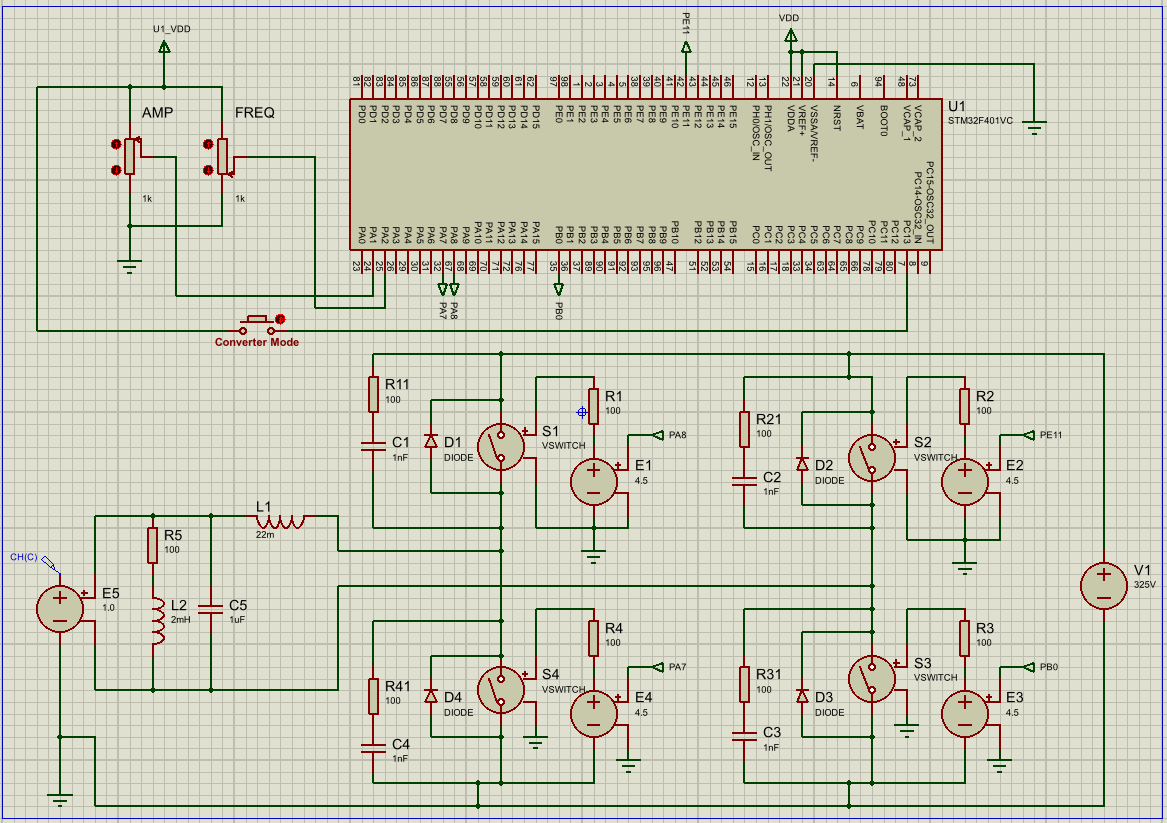
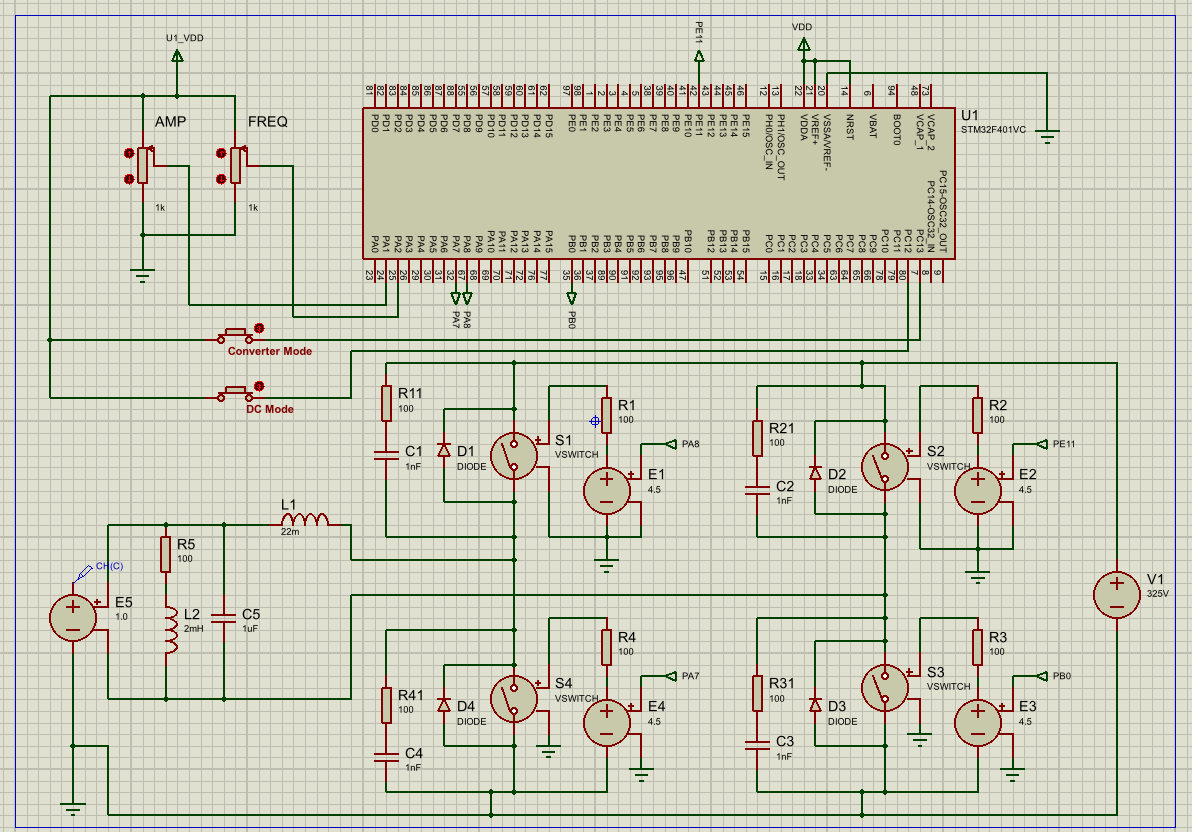
Reversible DC mode, smooth DC/AC transitions, fixed sine table
- PC12 button selects the DC output polarity (positive / negative)
- DC to AC: sine starts at the DC level (90° or 270°)
- AC to DC: waits for the sine to reach the DC level before switching
- Sine table computed once at startup and resampled in the ISR (no malloc / sinf at runtime)
- Updated schematic, screenshots, demo GIF and README

diff --git a/Firmware/Src/apk.c b/Firmware/Src/apk.c
@@ -15,11 +15,20 @@ uint16_t Freq = 0;
 
 static volatile uint16_t IRQCounter = 0;
 
+static volatile uint8_t FromDC = 0; // Flag for Conversion Mode Switch
 
 static volatile float m = 0.0f;
 static volatile uint8_t SinTableSize = 0;
 
-static int16_t * volatile SinRefTable = NULL;
+static int16_t SinRefTable[SIN_TABLE_MAX];
+
+void Sin_Init(void)
+{
+    for (uint8_t i = 0; i < SIN_TABLE_MAX; i++)
+    {
+        SinRefTable[i] = (int16_t)((float)COUNTER_MAX_VAL * sinf((2.0f * (float)M_PI * i) / SIN_TABLE_MAX));
+    }
+}
 
 void DC_AC_Conversion(void)
 {
@@ -40,34 +49,57 @@ void DC_AC_Conversion(void)
         {
             IRQCounter = 0;
         }
-
-        free(SinRefTable);
-        SinRefTable = malloc(SinTableSize*sizeof(int16_t)); // Table of Sin Values for number of PWM cycles in desired Period
-
-        if (SinRefTable == NULL)
-        {
-            SinTableSize = 0;
-            return;
-        }
-
-        for(uint8_t i =0; i<SinTableSize; i++)
-        {
-        	SinRefTable[i] = (int16_t)((float)COUNTER_MAX_VAL*sinf(((float)M_PI*2.0f * i)/SinTableSize)); // Table of Counter Compare values for every PWM cycle
-        }
-
         OldFreq = Freq; // Old Frequency Memorization
+    }
+
+    if ((FromDC != 0U) && (SinTableSize != 0U)) // Start from SIN Value when switching from DC-DC to DC-AC
+    {
+        if ((GPIOC->IDR & GPIO_IDR_ID12_Msk) == 0U)
+        {
+            IRQCounter = SinTableSize / 4U; // Positive DC
+        }
+        else
+        {
+            IRQCounter = (3U * SinTableSize) / 4U; // Negative DC
+        }
+        FromDC = 0U; // From DC Reset
     }
     WriteRegisterField(&TIM1->DIER, TIM_DIER_UIE_Pos, TIM_DIER_UIE_Msk, 1U); // TIM INT Enable
 }
 
 void DC_DC_Conversion(void)
 {
+	if (((TIM1->DIER & TIM_DIER_UIE_Msk) != 0U) && (SinTableSize != 0U)) // Coming from DC/AC mode
+	{
+		uint16_t Target;
+		if ((GPIOC->IDR & GPIO_IDR_ID12_Msk) == 0U)
+		{
+			Target = SinTableSize / 4U; // Positive DC
+		}
+		else
+		{
+			Target = (3U * SinTableSize) / 4U; // Negative DC
+		}
+		while (IRQCounter != Target) {}        // Wait for SIN to get DC Value
+	}
+
 	WriteRegisterField(&TIM1->DIER, TIM_DIER_UIE_Pos, TIM_DIER_UIE_Msk, 0U); // TIM INT Disable
-	static uint32_t CCR1_Val = 0;
+	static uint32_t CCR_Val = 0;
+	FromDC = 1U; // Flag Set
 	m = (float)Amp / (float)MAX_DC_VAL; // Calculate Amplitude Variation
-	CCR1_Val = (uint32_t)(m*(float)COUNTER_MAX_VAL);
-	TIM1->CCR1 = (CCR1_Val << TIM_CCR1_CCR1_Pos); // Constant PWM for DC-DC Conversion
-	TIM1->CCR2 = 0U; // PWM2 Disable
+	if ((GPIOC->IDR & GPIO_IDR_ID12_Msk )== 0U) // Positive DC Output
+	{
+		CCR_Val = (uint32_t)(m*(float)COUNTER_MAX_VAL);
+		TIM1->CCR1 = (CCR_Val << TIM_CCR1_CCR1_Pos); // Constant PWM for DC-DC Conversion
+		TIM1->CCR2 = 0U; // PWM2 Disable
+	}
+	else // Negative DC Output
+	{
+		CCR_Val = (uint32_t)(m*(float)COUNTER_MAX_VAL);
+		TIM1->CCR1 = 0U; // PWM1 Disable
+		TIM1->CCR2 = (CCR_Val << TIM_CCR2_CCR2_Pos); // Constant PWM for DC-DC Conversion
+	}
+
 }
 
 void TIM1_UP_TIM10_IRQHandler(void)
@@ -78,9 +110,10 @@ void TIM1_UP_TIM10_IRQHandler(void)
 	{
 		WriteRegisterField(&TIM1->SR, TIM_SR_UIF_Pos, TIM_SR_UIF_Msk, 0U); // Interrupt Flag Reset
 
-		CCR1_Val = (uint32_t)((COUNTER_MAX_VAL + m*(float)SinRefTable[IRQCounter]) / 2); // Calculate PWM1 Duty cycle
+		int16_t s = SinRefTable[((uint32_t)IRQCounter * SIN_TABLE_MAX) / SinTableSize]; // Calculate Corresponding SIN value based on output frequency
+		CCR1_Val = (uint32_t)((COUNTER_MAX_VAL + m*(float)s) / 2); // Calculate PWM1 Duty cycle
 		WriteRegisterField(&TIM1->CCR1, TIM_CCR1_CCR1_Pos, TIM_CCR1_CCR1_Msk, CCR1_Val); // Setting PWM 1 Duty cycle
-		CCR2_Val = (uint32_t)((COUNTER_MAX_VAL - m*(float)SinRefTable[IRQCounter]) / 2); // Calculate PWM2 Duty Cycle
+		CCR2_Val = (uint32_t)((COUNTER_MAX_VAL - m*(float)s) / 2); // Calculate PWM2 Duty Cycle
 		WriteRegisterField(&TIM1->CCR2, TIM_CCR2_CCR2_Pos, TIM_CCR2_CCR2_Msk, CCR2_Val); // Setting PWM2 Duty cycle
 
 		IRQCounter++; // Number of iterations

diff --git a/Firmware/Src/periph_init.c b/Firmware/Src/periph_init.c
@@ -85,6 +85,10 @@ static void GPIO_Init(void)
 	WriteRegisterField(&GPIOA->MODER, GPIO_MODER_MODER1_Pos, GPIO_MODER_MODER1_Msk, 3U); // PA1 Analog Mode
 	WriteRegisterField(&GPIOA->MODER, GPIO_MODER_MODER2_Pos, GPIO_MODER_MODER2_Msk, 3U); // PA2 Analog Mode
 
+	/*PC12 Configuration*/
+	WriteRegisterField(&GPIOC->MODER, GPIO_MODER_MODER12_Pos, GPIO_MODER_MODER12_Msk, 0U); // PC12 Input
+	WriteRegisterField(&GPIOC->PUPDR, GPIO_PUPDR_PUPD12_Pos, GPIO_PUPDR_PUPD12_Msk, 2U); // PC12 Pull Down
+
 	/*PC13 Configuration*/
 	WriteRegisterField(&GPIOC->MODER, GPIO_MODER_MODER13_Pos, GPIO_MODER_MODER13_Msk, 0U); // PC13 Input
 	WriteRegisterField(&GPIOC->PUPDR, GPIO_PUPDR_PUPD13_Pos, GPIO_PUPDR_PUPD13_Msk, 2U); // PC13 Pull Down

diff --git a/Firmware/Src/main.c b/Firmware/Src/main.c
@@ -13,6 +13,7 @@
  *  - Unipolar sinusoidal PWM (SPWM) for DC/AC mode
  *  - Output amplitude and frequency set by potentiometers (ADC1)
  *  - Operating mode selected by push button (PC13)
+ *  - DC/DC output polarity (positive/negative) selected by button (PC12)
  *  - Bare-metal register programming with CMSIS (no HAL)
  *
  * Target : STM32F401VC @ 84 MHz (HSI + PLL)
@@ -33,7 +34,7 @@ int main(void)
 {
 
 	System_Init();
-
+	Sin_Init();
     /* Loop forever */
 	while(1)
 	{

diff --git a/Firmware/Inc/config.h b/Firmware/Inc/config.h
@@ -14,6 +14,7 @@
 #define ADC_RANGE 4095U
 #define FREQ_PWM 10000U
 #define COUNTER_MAX_VAL 8400
+#define SIN_TABLE_MAX (FREQ_PWM / MIN_FREQ_VAL)
 
 typedef enum
 {

diff --git a/Firmware/Inc/apk.h b/Firmware/Inc/apk.h
@@ -8,6 +8,7 @@
 
 #include <stdint.h>
 
+void Sin_Init(void);
 void DC_AC_Conversion(void);
 void DC_DC_Conversion(void);
 

diff --git a/README.md b/README.md
@@ -2,7 +2,7 @@
 
 Bare-metal firmware for an **STM32F401VC** that drives an IGBT/MOSFET **H-bridge** in two modes:
 
-- **DC/DC chopper**: adjustable DC output from 0 to ~325 V
+- **DC/DC chopper**: reversible DC output, adjustable from 0 to ±325 V
 - **DC/AC inverter**: adjustable sine output (amplitude up to 325 V peak / 230 V RMS, frequency 50 to 100 Hz) using **unipolar sinusoidal PWM (SPWM)**
 
 The firmware is written in C with **direct register access (CMSIS only, no HAL)**. The whole system was validated in **Proteus 9** simulation, and the complementary PWM outputs with dead-time were verified on a real **STM32F407G-DISC1** board.
@@ -15,9 +15,11 @@ The firmware is written in C with **direct register access (CMSIS only, no HAL)*
 
 - **Complementary PWM** at **10 kHz** on TIM1 (CH1/CH1N and CH2/CH2N) with **1 µs hardware dead-time**
 - **Unipolar SPWM** generated in the TIM1 update interrupt
-- **Sine reference table** recomputed only when the frequency changes, with **phase continuity**
+- **Fixed sine table** (200 points) computed once at startup and resampled in the interrupt: no dynamic memory, instant frequency change with **phase continuity**
+- **Smooth mode transitions**: DC/DC → DC/AC starts the sine at the DC level, and DC/AC → DC/DC waits for the sine to reach the requested DC level
 - **Amplitude and frequency** set by two potentiometers read by ADC1
 - **Operating mode** (DC/DC or DC/AC) selected by a push button
+- **Output polarity** in DC/DC mode (positive or negative) selected by a second button
 - **Clock**: 84 MHz from the internal HSI oscillator and PLL
 
 ## Screenshots
@@ -30,7 +32,7 @@ All captures below come from the Proteus 9 simulation.
 ### DC/AC mode: filtered output voltage (amplitude and frequency changed with the potentiometers)
 ![AC output](Docs/ac_output.png)
 
-### DC/DC mode: adjustable DC output
+### DC/DC mode: reversible DC output (positive and negative levels set with the potentiometer and the polarity button)
 ![DC output](Docs/dc_output.png)
 
 ### Complementary PWM: PA8 (pink) and PA7 (blue)
@@ -47,7 +49,7 @@ All captures below come from the Proteus 9 simulation.
                                                   │ complementary PWM + dead-time
                                      STM32F401VC (TIM1, ADC1, GPIO)
                                                   ▲
-                                 Potentiometers (amplitude, frequency) + mode button
+                                 Potentiometers (amplitude, frequency) + mode and polarity buttons
 ```
 
 ## Pinout
@@ -61,24 +63,34 @@ All captures below come from the Proteus 9 simulation.
 | PA1  | ADC1_IN1             | Amplitude potentiometer                |
 | PA2  | ADC1_IN2             | Frequency potentiometer                |
 | PC13 | GPIO input (pull-down) | Mode button: low = DC/DC, high = DC/AC |
+| PC12 | GPIO input (pull-down) | DC/DC polarity: low = positive, high = negative |
 
 ## How it works
 
 ### DC/DC mode
-Leg A switches with a constant duty cycle `D = Amp / 325`, while the low-side switch of leg B stays on.
-The average output voltage is `V_out = D × V_bus`.
+One leg switches with a constant duty cycle `D = Amp / 325`, while the low-side switch of the other leg stays on.
+The average output voltage is `V_out = ± D × V_bus`:
+- **PC12 low (positive):** leg A switches and leg B is held low.
+- **PC12 high (negative):** leg B switches and leg A is held low, which reverses the polarity across the load.
 
 ### DC/AC mode (unipolar SPWM)
-For a requested frequency `f`, a sine table of `N = 10000 / f` points is computed (one point per PWM period).
-At each TIM1 update interrupt (10 kHz), the next point `s` of the table sets both legs:
+One sine period of 200 points (the number of PWM periods at 50 Hz) is computed once at startup.
+For a requested frequency `f`, one sine period lasts `N = 10000 / f` PWM periods, so the interrupt reads the table at index `k × 200 / N` (k = 0 … N−1).
+At each TIM1 update interrupt (10 kHz), this value `s` sets both legs:
 
 ```
 CCR1 = (ARR + 1) × (1 + m·s) / 2      (leg A)
 CCR2 = (ARR + 1) × (1 − m·s) / 2      (leg B)
 ```
 
-where `m = Amp / 325` is the modulation index. When the frequency changes, the table index is rescaled
-so the sine keeps the same phase.
+where `m = Amp / 325` is the modulation index. When the frequency changes, only `N` and the index are updated
+(the index is rescaled so the sine keeps the same phase); the table itself never changes.
+
+### Mode transitions
+- **DC/DC → DC/AC:** the sine starts at 90° (positive DC) or 270° (negative DC), where its value equals the DC level and its slope is zero.
+- **DC/AC → DC/DC:** the firmware waits for the sine to reach that same point before switching (at most one period).
+
+Both transitions are therefore free of voltage steps.
 
 ### Timing
 | Parameter | Value |
@@ -117,7 +129,7 @@ Simulation/
 
 1. Open `Simulation/Simulation of Load.pdsprj`.
 2. Double-click the STM32 and set **Program File** to the generated `.hex` (or `.elf`).
-3. Run the simulation, then turn the potentiometers and press the mode button.
+3. Run the simulation, then turn the potentiometers and use the mode and polarity buttons.
 
 Simulation model used:
 - 325 V DC bus with 1 Ω series resistance
@@ -131,7 +143,6 @@ Simulation model used:
 - **Frequency range:** the output frequency is currently 50 to 100 Hz; the target is 1 to 100 Hz.
 - **Ideal switches:** the H-bridge is simulated with ideal switches. A full simulation with real IGBT models and gate drivers (IR2110) is very slow and unstable in Proteus.
 - **Open loop:** there is no closed-loop control yet; output voltage and frequency are set in open loop.
-- **Planned: reversible DC/DC mode.** Drive leg B instead of leg A to get a negative output voltage, so the converter can reverse the polarity of the load (e.g. a DC motor running in both directions).
 - **Other possible improvements:**
   - a soft-start ramp on the amplitude;
   - fault protection with the TIM1 break input;
